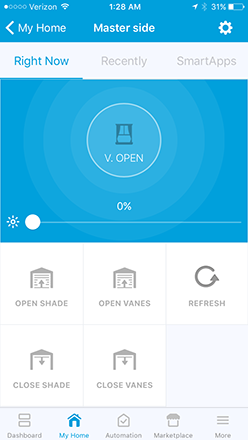
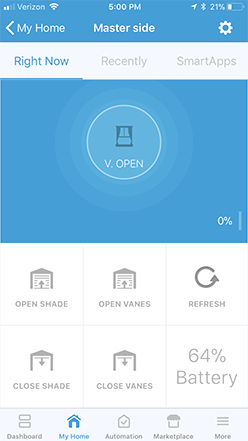
Add support for fetching current battery level
* update refresh to poll every 3 hours
* update response parser to read in battery info
* add new tile to display battery percentage

The assumption here is that the max battery value reported by the PV hub
is out of a max value of 255. I've never observed that value to be >180 so
it's kind of a guess at the moment.

diff --git a/README.md b/README.md
@@ -7,6 +7,7 @@ This project implements a SmartApp and device handlers to allow you to directly 
 * auto-discover configured scenes
 * set/monitor the shade level
 * set/monitor the vanes level
+* monitor battery level
 * execute scenes
 
 The benefit of using this is that there is no requirement for the default PowerView Account web service or other middlemen like IFTTT--your SmartThings hub will communicate directly with the PowerView hub. **Note:** due to the way SmartThings works, a connection to the ST cloud is still required.
